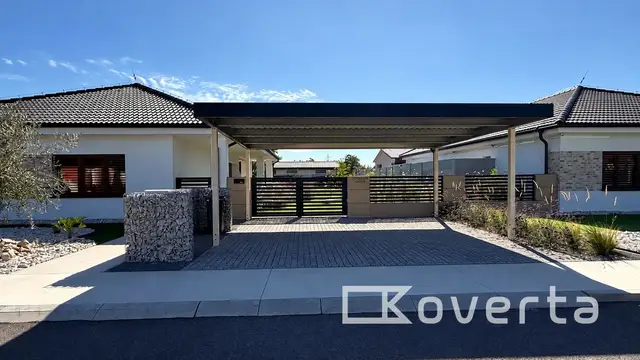
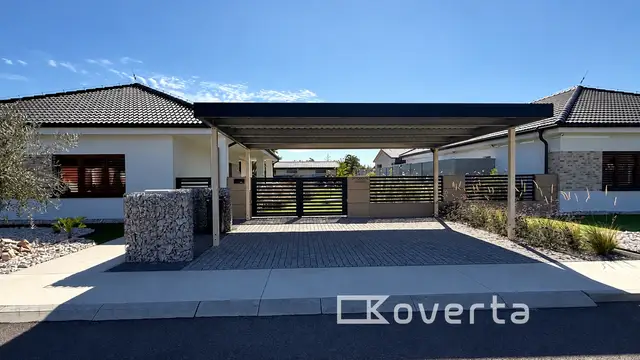
Galéria: vodoznak Rybník rovnako veľký ako na starých fotkách, výmena fotiek 4 a 18
Širokú fotku (16:9) galéria oreže na stred 4:3, preto sa vodoznak meria
a kladie vo viditeľnej časti — predtým bol väčší a orezanie ho odrezalo.
Na miesto 4 ide prístrešok Koverta 260 namiesto dvojmiestneho s Mercedesom,
bioklimatická pergola 016 ide nižšie a na jej miesto pergola 124.

Claude-Session: https://claude.ai/code/session_012CZhGwcxdhnaYrQa1NuGp2

Changed region(s): [[0.5, 0.7944, 0.9375, 0.9167]]

diff --git a/realizacie/index.html b/realizacie/index.html
@@ -408,8 +408,8 @@
         <figcaption class="kh-work__cap"><strong>Prístrešky pre autá</strong><span>Prístrešok pre auto Koverta</span></figcaption>
       </figure>
 <figure class="kh-work__item k-rise k-reveal" data-k-skupina="auta" data-k-type="auta" data-k-brand="koverta" data-k-delay="4">
-        <span class="kh-work__media"><img src="../assets/realizacie/auta-koverta-046.jpg" alt="Prístrešok pre dve autá Koverta" loading="lazy" decoding="async" width="1000" height="750" srcset="../assets/realizacie/auta-koverta-046-w640.webp 640w, ../assets/realizacie/auta-koverta-046.jpg 1000w" sizes="(max-width: 900px) 86vw, 30vw"></span>
-        <figcaption class="kh-work__cap"><strong>Prístrešky pre autá</strong><span>Prístrešok pre dve autá</span></figcaption>
+        <span class="kh-work__media"><img src="../assets/realizacie/auta-koverta-260.jpg" alt="Prístrešok pre auto Koverta pri rodinnom dome" loading="lazy" decoding="async" width="1000" height="750" srcset="../assets/realizacie/auta-koverta-260-w640.webp 640w, ../assets/realizacie/auta-koverta-260.jpg 1000w" sizes="(max-width: 900px) 86vw, 30vw"></span>
+        <figcaption class="kh-work__cap"><strong>Prístrešky pre autá</strong><span>Prístrešok pre auto Koverta</span></figcaption>
       </figure>
 <figure class="kh-work__item k-rise k-reveal" data-k-skupina="zahrada" data-k-type="pergoly" data-k-brand="soltec" data-k-delay="5">
         <span class="kh-work__media"><img src="../assets/realizacie/pergoly-soltec-123.jpg" alt="Pergola pri bazéne, Izola" loading="lazy" decoding="async" width="1000" height="667" srcset="../assets/realizacie/pergoly-soltec-123-w640.webp 640w, ../assets/realizacie/pergoly-soltec-123.jpg 1000w" sizes="(max-width: 900px) 86vw, 30vw"></span>
@@ -464,8 +464,8 @@
         <figcaption class="kh-work__cap"><strong>Prístrešky pre autá</strong><span>Prístrešok pre auto Koverta</span></figcaption>
       </figure>
 <figure class="kh-work__item k-rise k-reveal" data-k-skupina="zahrada" data-k-type="pergoly" data-k-brand="soltec" data-k-delay="6">
-        <span class="kh-work__media"><img src="../assets/realizacie/pergoly-soltec-016.jpg" alt="Pergola so sklenenými panelmi pri bazéne" loading="lazy" decoding="async" width="1000" height="750" srcset="../assets/realizacie/pergoly-soltec-016-w640.webp 640w, ../assets/realizacie/pergoly-soltec-016.jpg 1000w" sizes="(max-width: 900px) 86vw, 30vw"></span>
-        <figcaption class="kh-work__cap"><strong>Bioklimatické pergoly</strong><span>Pergola so sklenenými panelmi pri bazéne</span></figcaption>
+        <span class="kh-work__media"><img src="../assets/realizacie/pergoly-soltec-124.jpg" alt="Pergola, Graz" loading="lazy" decoding="async" width="1000" height="667" srcset="../assets/realizacie/pergoly-soltec-124-w640.webp 640w, ../assets/realizacie/pergoly-soltec-124.jpg 1000w" sizes="(max-width: 900px) 86vw, 30vw"></span>
+        <figcaption class="kh-work__cap"><strong>Bioklimatické pergoly</strong><span>Pergola, Graz</span></figcaption>
       </figure>
 <figure class="kh-work__item k-rise k-reveal" data-k-skupina="zahrada" data-k-type="zahrada pevne" data-k-brand="koverta" data-k-delay="1">
         <span class="kh-work__media"><img srcset="../assets/foto/img_4771-w1000-w640.webp 640w, ../assets/foto/img_4771-w1000-w1000.webp 1000w" src="../assets/foto/img_4771-w1000.jpg" alt="Prístrešok Koverta so vstupom do domu pod strechou" loading="lazy" decoding="async" width="1000" height="750" sizes="(max-width: 759px) 86vw, (max-width: 1199px) 45vw, 401px"></span>
@@ -1028,8 +1028,8 @@
         <figcaption class="kh-work__cap"><strong>Tienenie</strong><span>Tienenie Soltec</span></figcaption>
       </figure>
 <figure class="kh-work__item k-rise k-reveal" data-k-skupina="auta" data-k-type="auta" data-k-brand="koverta" data-k-delay="3">
-        <span class="kh-work__media"><img src="../assets/realizacie/auta-koverta-260.jpg" alt="Prístrešok pre auto Koverta pri rodinnom dome" loading="lazy" decoding="async" width="1000" height="750" srcset="../assets/realizacie/auta-koverta-260-w640.webp 640w, ../assets/realizacie/auta-koverta-260.jpg 1000w" sizes="(max-width: 900px) 86vw, 30vw"></span>
-        <figcaption class="kh-work__cap"><strong>Prístrešky pre autá</strong><span>Prístrešok pre auto Koverta</span></figcaption>
+        <span class="kh-work__media"><img src="../assets/realizacie/auta-koverta-046.jpg" alt="Prístrešok pre dve autá Koverta" loading="lazy" decoding="async" width="1000" height="750" srcset="../assets/realizacie/auta-koverta-046-w640.webp 640w, ../assets/realizacie/auta-koverta-046.jpg 1000w" sizes="(max-width: 900px) 86vw, 30vw"></span>
+        <figcaption class="kh-work__cap"><strong>Prístrešky pre autá</strong><span>Prístrešok pre dve autá</span></figcaption>
       </figure>
 <figure class="kh-work__item k-rise k-reveal" data-k-skupina="auta" data-k-type="auta" data-k-brand="koverta" data-k-delay="4">
         <span class="kh-work__media"><img src="../assets/realizacie/auta-koverta-262.jpg" alt="Prístrešok pre auto Koverta pri rodinnom dome" loading="lazy" decoding="async" width="1000" height="750" srcset="../assets/realizacie/auta-koverta-262-w640.webp 640w, ../assets/realizacie/auta-koverta-262.jpg 1000w" sizes="(max-width: 900px) 86vw, 30vw"></span>
@@ -1112,8 +1112,8 @@
         <figcaption class="kh-work__cap"><strong>Prístrešky pre autá</strong><span>Prístrešok pre auto Soltec</span></figcaption>
       </figure>
 <figure class="kh-work__item k-rise k-reveal" data-k-skupina="zahrada" data-k-type="pergoly" data-k-brand="soltec" data-k-delay="6">
-        <span class="kh-work__media"><img src="../assets/realizacie/pergoly-soltec-124.jpg" alt="Pergola, Graz" loading="lazy" decoding="async" width="1000" height="667" srcset="../assets/realizacie/pergoly-soltec-124-w640.webp 640w, ../assets/realizacie/pergoly-soltec-124.jpg 1000w" sizes="(max-width: 900px) 86vw, 30vw"></span>
-        <figcaption class="kh-work__cap"><strong>Bioklimatické pergoly</strong><span>Pergola, Graz</span></figcaption>
+        <span class="kh-work__media"><img src="../assets/realizacie/pergoly-soltec-016.jpg" alt="Pergola so sklenenými panelmi pri bazéne" loading="lazy" decoding="async" width="1000" height="750" srcset="../assets/realizacie/pergoly-soltec-016-w640.webp 640w, ../assets/realizacie/pergoly-soltec-016.jpg 1000w" sizes="(max-width: 900px) 86vw, 30vw"></span>
+        <figcaption class="kh-work__cap"><strong>Bioklimatické pergoly</strong><span>Pergola so sklenenými panelmi pri bazéne</span></figcaption>
       </figure>
 <figure class="kh-work__item k-rise k-reveal" data-k-skupina="zahrada" data-k-type="pergoly" data-k-brand="soltec" data-k-delay="1">
         <span class="kh-work__media"><img src="../assets/realizacie/pergoly-soltec-125.jpg" alt="Pergola, Graz" loading="lazy" decoding="async" width="1000" height="667" srcset="../assets/realizacie/pergoly-soltec-125-w640.webp 640w, ../assets/realizacie/pergoly-soltec-125.jpg 1000w" sizes="(max-width: 900px) 86vw, 30vw"></span>

diff --git a/tools/pridaj-realizacie.py b/tools/pridaj-realizacie.py
@@ -65,12 +65,19 @@ def slug(text):
 
 def s_vodoznakom(im):
     """Vodoznak ako na starom webe: 40 % šírky, 6,5 % od pravého okraja,
-    10 % výšky od spodku."""
+    10 % výšky od spodku.
+
+    Staré fotky sú 4:3 a galéria ich tak aj ukazuje. Širšiu fotku (napr.
+    16:9) galéria oreže na stred 4:3 — vodoznak sa preto meria a kladie
+    v tejto viditeľnej časti, inak by bol väčší než na ostatných fotkách
+    a jeho koniec by orezanie odrezalo."""
     znak = Image.open(VODOZNAK).convert('RGBA')
     w, h = im.size
-    sirka = round(w * 0.40)
+    oblast = min(w, round(h * 4 / 3))
+    x0 = (w - oblast) // 2
+    sirka = round(oblast * 0.40)
     znak = znak.resize((sirka, round(znak.height * sirka / znak.width)), Image.LANCZOS)
-    x = w - round(w * 0.065) - znak.width
+    x = x0 + oblast - round(oblast * 0.065) - znak.width
     y = h - round(h * 0.10) - znak.height
     vysledok = im.convert('RGBA')
     vysledok.alpha_composite(znak, (x, y))
